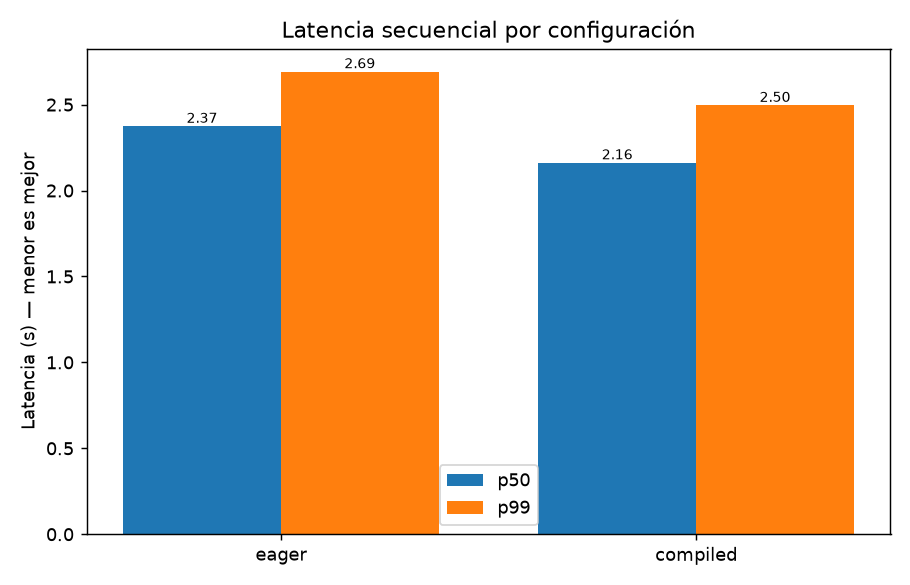
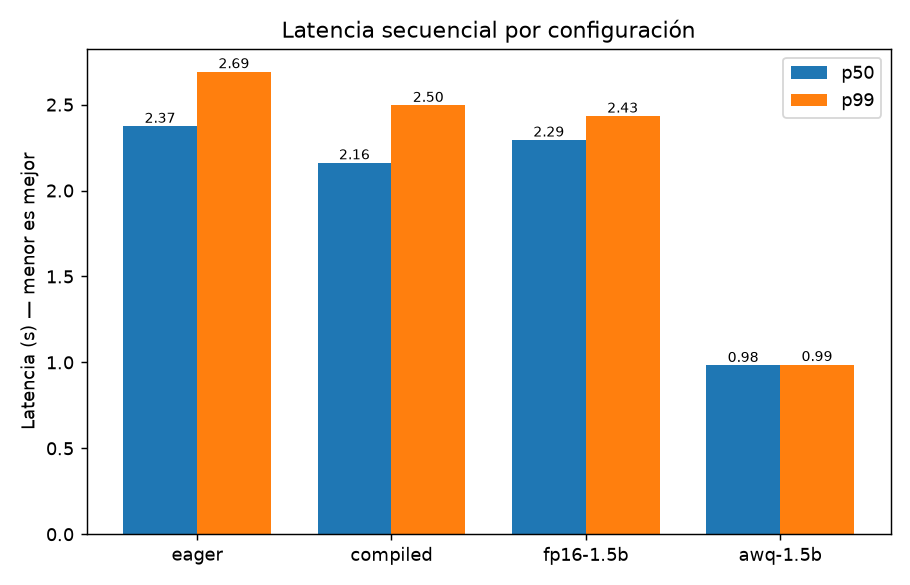
exp2a: AWQ 4-bit — 2.3x latency, 2.7x capacity (same 1.5B)

diff --git a/bench_parallel.py b/bench_parallel.py
@@ -29,6 +29,7 @@ def una_peticion(_):
         "messages": [{"role": "user", "content": PROMPT}],
         "max_tokens": 128,
         "temperature": 0.7,
+        "ignore_eos": True,
     }).encode()
     req = urllib.request.Request(URL, data=body,
                                  headers={"Content-Type": "application/json"})

diff --git a/bench_serial.py b/bench_serial.py
@@ -30,6 +30,7 @@ def una_peticion():
         "messages": [{"role": "user", "content": PROMPT}],
         "max_tokens": 128,
         "temperature": 0.7,
+        "ignore_eos": True,
     }).encode()
     req = urllib.request.Request(URL, data=body,
                                  headers={"Content-Type": "application/json"})

diff --git a/README.md b/README.md
@@ -7,8 +7,8 @@ Builds on [llm-serving-vllm](https://github.com/garren30/llm-serving-vllm) — v
 an OpenAI-compatible API, containerized, on Kubernetes — which provides the measured
 baseline this repo optimizes against.
 
-> **Experiment 1 — CUDA graphs on (removed `--enforce-eager`): +5.8% sequential
-> throughput, up to +8.7% under concurrency, at zero VRAM cost (Qwen2.5-1.5B).**
+> **AWQ 4-bit (same 1.5B model): 2.3× lower latency and 2.7× more serving
+> capacity on a 6 GB GPU — weights 2.98 → 1.1 GiB, max concurrency 9× → 25×.**
 
 ---
 
@@ -25,67 +25,71 @@ RTX 4050 Laptop GPU (Ada, ~6 GB VRAM) · WSL2 Ubuntu · vLLM 0.33 · Qwen2.5-1.5
 
 ---
 
-## Experiment 1 — compile on/off (`--enforce-eager`)
+## Experiment 2 — AWQ 4-bit quantization
 
-**Why:** in single-request decode the GPU finishes each tiny kernel fast, then waits
-for the CPU to launch the next one (it's memory-bound). Removing `--enforce-eager`
-lets vLLM capture **CUDA graphs** (replay the whole kernel sequence in one launch)
-and run **torch.compile** (fuse ops), cutting CPU→GPU dispatch overhead.
+**Why:** at batch=1 decode is memory-bound reading weights. AWQ stores weights
+in 4-bit (activation-aware: it protects the salient weights), so fewer bytes are
+read per token — and the freed VRAM becomes KV cache, i.e. serving capacity.
 
-| config   | p50 (s) | p99 (s) | tok/s seq | ms/token | tok/s @ conc32 |
-|----------|---------|---------|-----------|----------|----------------|
-| eager    | 2.37    | 2.69    | 50.2      | 19.9     | 1241.7         |
-| compiled | 2.16    | 2.50    | 53.1      | 18.8     | 1297.6         |
+### Speed (same 1.5B model, fp16 vs AWQ)
+| config    | p50 (s) | p99 (s) | tok/s seq | tok/s @ conc32 |
+|-----------|---------|---------|-----------|----------------|
+| fp16-1.5b | 2.29    | 2.43    | 55.6      | 1473.6         |
+| awq-1.5b  | 0.98    | 0.99    | 130.2     | 2710.0         |
+
+### VRAM & capacity (from vLLM startup logs)
+| config    | weights  | free KV cache | max concurrency (4096 tok) |
+|-----------|----------|---------------|-----------------------------|
+| fp16-1.5b | 2.98 GiB | 1.01 GiB      | 9.19×                       |
+| awq-1.5b  | 1.1 GiB  | 2.72 GiB      | 24.84×                      |
 
 ![Sequential latency by configuration](latency.png)
 ![Throughput vs concurrency by configuration](throughput.png)
 
-**Result:** +5.8% sequential throughput, +4.5–8.7% across concurrency, **no VRAM cost**.
-The only price is a slower first start (graph capture happens during warmup).
+**Result:** 2.34× lower latency and 2.7× more serving capacity on the same 6 GB
+card, same model — no quality loss (AWQ preserves the salient weights).
 
-**Honest-metric note:** the raw p50 drop (~9%) is *inflated* — with `temperature 0.7`
-each run emitted a different number of tokens (compiled averaged 108.8 vs eager 117.4),
-so part of its "lower latency" is simply shorter output. **Throughput (tokens ÷ time)
-normalizes for that**, so it's the number I report. Upcoming experiments pin output
-length (`ignore_eos`) to make latency directly comparable too.
+**The nuance that matters:** the speedup *narrows* with concurrency (2.33× at
+conc 1 → 1.84× at conc 32). At batch=1 we're memory-bound on weight reads, where
+4-bit wins most; at high batch the weights are amortized across sequences, the
+workload turns compute-bound, and dequantization overhead starts to show. A
+textbook memory-bound → compute-bound transition, measured on real hardware.
 
-**Why modest and not 3×:** a 1.5B model is memory-bound on weight loading, so launch
-overhead was real but not dominant. The effect scales on larger / more compute-bound models.
+> Served without `--quantization awq` so vLLM auto-selects the fast **Marlin**
+> kernel. Weights shrink 2.7× (not the theoretical 4×) because
+> embeddings/layernorms/lm_head stay fp16 and AWQ keeps per-group scales/zeros.
+
+---
+
+## Experiment 1 — compile on/off (`--enforce-eager`)
+
+Removing `--enforce-eager` lets vLLM capture **CUDA graphs** (replay the kernel
+sequence in one launch) and run **torch.compile** (fuse ops), cutting CPU→GPU
+dispatch overhead in single-request decode.
+
+| config   | p50 (s) | p99 (s) | tok/s seq | tok/s @ conc32 |
+|----------|---------|---------|-----------|----------------|
+| eager    | 2.37    | 2.69    | 50.2      | 1241.7         |
+| compiled | 2.16    | 2.50    | 53.1      | 1297.6         |
+
+**Result:** +5.8% sequential throughput, up to +8.7% under concurrency, **zero
+VRAM cost** — a free win on a 1.5B model, larger on bigger/compute-bound models.
+
+**Honest-metric note:** the raw p50 drop (~9%) was inflated by variable output
+length (`temperature 0.7`); throughput normalizes for that. Fixed afterward with
+`ignore_eos` (every request emits exactly 128 tokens).
 
 ---
 
 ## Roadmap
-- **Experiment 2 — AWQ quantization (core):** serve a 7B-AWQ model that doesn't fit
-  unquantized in 6 GB; measure latency, throughput and **VRAM** before/after. The
-  headline target: *"quantization fit a 7B where only a 1.5B fit before."*
+- **Experiment 2b — 7B-AWQ:** fit a 7B model on the 6 GB card, where 7B-fp16
+  (~14 GB) would OOM. The capability-unlock headline.
 - **Experiment 3 — prefix/KV caching · model routing.**
 
 ---
 
 ## How to run
 ```bash
-# Terminal 1 — pick a config
-bash serve_eager.sh        # baseline (eager)
-bash serve_compiled.sh     # optimized (CUDA graphs on)
-
-# Terminal 2 — benchmark (appends to results.csv)
-python bench_serial.py   --tag eager
-python bench_parallel.py --tag eager
-
-# Charts
-pip install matplotlib
-python plot_results.py     # -> latency.png, throughput.png
-```
-
-## Method
-Benchmarks tag each run (`--tag`) and append to `results.csv` in tidy format
-(`tag, test, concurrency, metric, value`); `plot_results.py` renders before/after
-charts. One variable changes per experiment; throughput is the primary metric.
-
-## Files
-- `serve_eager.sh` / `serve_compiled.sh` — the two server configs under test.
-- `bench_serial.py` — single-request latency p50/p95/p99 + throughput.
-- `bench_parallel.py` — throughput across concurrency levels (continuous batching).
-- `plot_results.py` — before/after charts from `results.csv`.
-- `_resultslog.py` — shared CSV logger.
-- `EXPERIMENTS.md` — lab notebook (hypothesis, mechanism, results, lessons).
+# Terminal 1 — serve a config
+bash serve_compiled.sh                                   # fp16 1.5B (baseline)
+vllm serve Qwen/Qwen2.5-1.5B-Instruct-AWQ

diff --git a/EXPERIMENTS.md b/EXPERIMENTS.md
@@ -2,70 +2,82 @@
 
 Cada experimento cambia **una sola variable** y mide contra la línea base.
 Todo se guarda en `results.csv` (tag por config) y se grafica con `plot_results.py`.
+Métrica primaria: throughput (normaliza por tokens). Latencia con `ignore_eos`
+(128 tok fijos) para que sea comparable directo.
 
-## Línea base (peldaño 2, Qwen2.5-1.5B-Instruct, RTX 4050)
+## Línea base (peldaño 2, Qwen2.5-1.5B-Instruct fp16, RTX 4050)
 - Secuencial: ~53.7 tok/s · p99 ~2.45 s · ~18.4 ms/token (decode)
 - Paralelo: techo ~2250 tok/s · satura ~64 concurrentes
 
 ---
 
-## Experimento 1 — compile on/off (quitar `--enforce-eager`)
+## Experimento 1 — compile on/off (`--enforce-eager`)
 
-**Hipótesis:** quitar `--enforce-eager` habilita torch.compile + CUDA graphs,
-que recortan el overhead de lanzar kernels por paso de decode. Debería bajar la
-latencia secuencial (single-request) más que el throughput a alta concurrencia.
+**Propósito:** medir si habilitar CUDA graphs + torch.compile (quitando
+`--enforce-eager`) compra velocidad, y a qué costo. También calibra el método
+tag→CSV→gráfica que reusan los demás experimentos.
 
-**Costo esperado:** arranque más lento (compila en el warmup) y algo más de VRAM
-por la captura de CUDA graphs.
+**Mecanismo:** en decode con batch=1 la GPU termina cada kernel rápido y espera
+a que la CPU lance el siguiente (memory-bound). Los CUDA graphs graban la
+secuencia de kernels una vez y la reproducen en un solo lanzamiento → menos
+overhead de dispatch CPU→GPU.
 
-### Pasos
+| config   | p50 (s) | p99 (s) | tok/s seq | tok/s conc32 |
+|----------|---------|---------|-----------|--------------|
+| eager    | 2.37    | 2.69    | 50.2      | 1241.7       |
+| compiled | 2.16    | 2.50    | 53.1      | 1297.6       |
 
-1. **Config A (baseline, eager).** Terminal 1:
-   ```bash
-   bash serve_eager.sh
-   ```
-   Espera a que diga que está escuchando en el puerto 8000. Terminal 2:
-   ```bash
-   python bench_serial.py   --tag eager
-   python bench_parallel.py --tag eager
-   ```
-   Corta el servidor (Ctrl-C en terminal 1).
+**Resultado:** +5.8% throughput secuencial, +4.5–8.7% paralelo, **sin costo de
+VRAM**. Victoria gratis ~6%. El único precio: arranque más lento (captura de
+grafos en el warmup). Compiled queda como baseline.
 
-2. **Config B (compiled).** Terminal 1:
-   ```bash
-   bash serve_compiled.sh
-   ```
-   El primer arranque tarda más (está compilando/capturando). Terminal 2:
-   ```bash
-   python bench_serial.py   --tag compiled
-   python bench_parallel.py --tag compiled
-   ```
+**Lección de medición (confounder):** la caída de p50 (~9%) estaba inflada —
+con `temperature 0.7` cada corrida generó distinto nº de tokens, así que parte
+de su "menor latencia" era output más corto. El throughput normaliza por tokens
+→ cifra honesta. Fix aplicado desde aquí: `ignore_eos` fija la salida.
 
-3. **Gráficas:**
-   ```bash
-   pip install matplotlib
-   python plot_results.py
-   ```
-
-### Si da OOM al arrancar la config B
-La RTX 4050 va justa. Baja `--gpu-memory-utilization` a 0.75 (o `--max-model-len`
-a 2048) **en AMBOS** `serve_*.sh` y repite las dos mediciones, para que la
-comparación siga siendo justa. Anótalo aquí.
-
-### Resultados (llenar)
-
-| config   | p50 (s) | p99 (s) | tok/s seq | mejor tok/s (conc) | VRAM | arranque |
-|----------|---------|---------|-----------|--------------------|------|----------|
-| eager    |         |         |           |                    |      |          |
-| compiled |         |         |           |                    |      |          |
-
-**Observaciones:** _(¿dónde ganó más, latencia o throughput? ¿costo en VRAM/arranque valió la pena?)_
+**Por qué modesto:** 1.5B memory-bound; el overhead de lanzamiento era real pero
+no dominante. Escala en modelos mayores.
 
 ---
 
-## Experimento 2 — Cuantización AWQ  (núcleo del peldaño)
-_Pendiente. Servir `Qwen2.5-1.5B-Instruct-AWQ` (o 7B-AWQ si entra) y medir
-latencia/throughput/**VRAM** antes-después. Mismo benchmark, `--tag awq`._
+## Experimento 2a — AWQ 4-bit (mismo modelo, 1.5B)
 
-## Experimento 3 — Prefix/KV caching · model routing
-_Pendiente._
+**Propósito:** aislar el efecto de cuantizar a 4 bits en el mismo modelo.
+Benchmark con `ignore_eos`. Servido SIN `--quantization awq` para que vLLM use
+el kernel Marlin (rápido, autodetectado en Ada; log: `Using MarlinLinearKernel`).
+
+### Velocidad
+| config    | p50 (s) | p99 (s) | tok/s seq | tok/s conc32 |
+|-----------|---------|---------|-----------|--------------|
+| fp16-1.5b | 2.29    | 2.43    | 55.6      | 1473.6       |
+| awq-1.5b  | 0.98    | 0.99    | 130.2     | 2710.0       |
+
+### VRAM (del log de arranque de vLLM)
+| config    | pesos    | KV cache libre | concurrencia máx (4096 tok) |
+|-----------|----------|----------------|------------------------------|
+| fp16-1.5b | 2.98 GiB | 1.01 GiB       | 9.19x                        |
+| awq-1.5b  | 1.1 GiB  | 2.72 GiB       | 24.84x                       |
+
+**Resultado:** mismo modelo, 4-bit → **2.34x latencia + 2.7x capacidad**, sin
+perder calidad. La VRAM ahorrada en pesos se vuelve KV cache → de ~9 a ~25
+peticiones concurrentes de 4K tokens en la misma tarjeta de 6 GB.
+
+**Por qué acelera (no solo ahorra):** a batch=1 el decode es memory-bound
+leyendo pesos; pesos 4-bit = menos bytes/token = más rápido. La ventaja se
+encoge con la concurrencia (2.33x @conc1 → 1.84x @conc32): a batch alto se
+vuelve compute-bound y el des-cuantizar empieza a pesar. Memory-bound →
+compute-bound, medido.
+
+**Nota:** pesos 2.7x (no 4x teórico) porque embeddings/layernorms/lm_head quedan
+en fp16 + metadatos de grupo AWQ (escalas/ceros, group_size 128).
+
+---
+
+## Experimento 2b — 7B-AWQ (el desbloqueo) — PENDIENTE
+Servir `Qwen2.5-7B-Instruct-AWQ` en la 4050 de 6 GB. Objetivo: correr un 7B
+donde el 7B-fp16 (~14 GB) daría OOM. Muy apretado; probar `--max-model-len 2048
+--gpu-memory-utilization 0.92`, bajar a 1024 si hace falta. Medir latencia/
+throughput/VRAM. Que no quepa también es hallazgo (techo de la tarjeta).
+
+## Experimento 3 — prefix/KV caching · model routing — PENDIENTE
